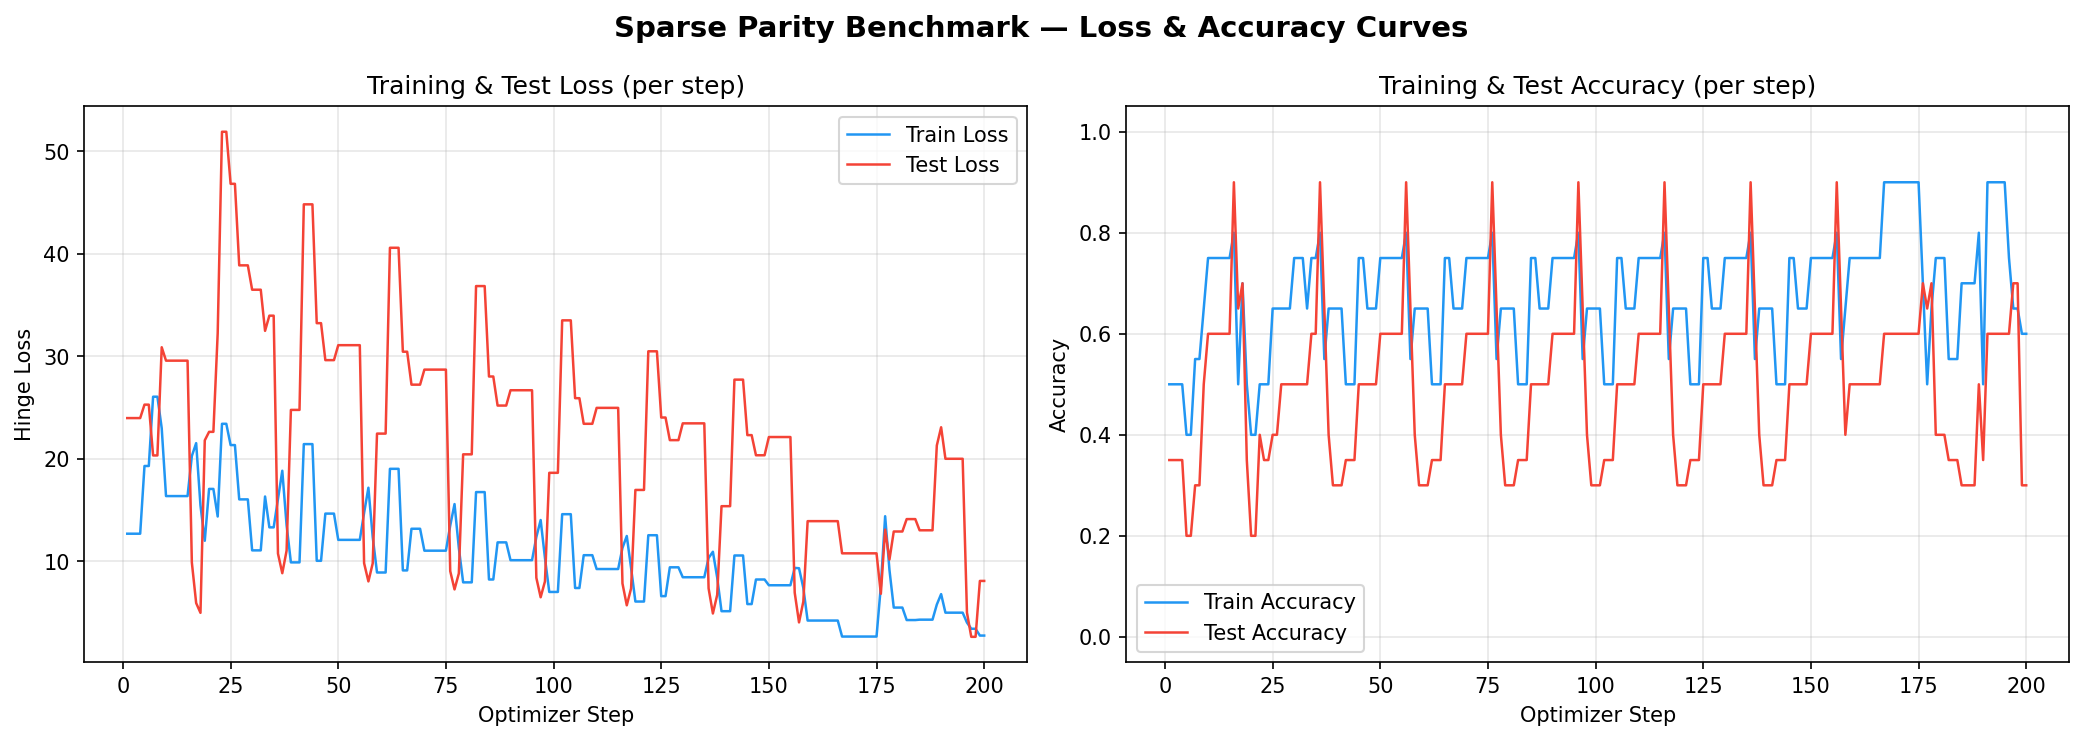
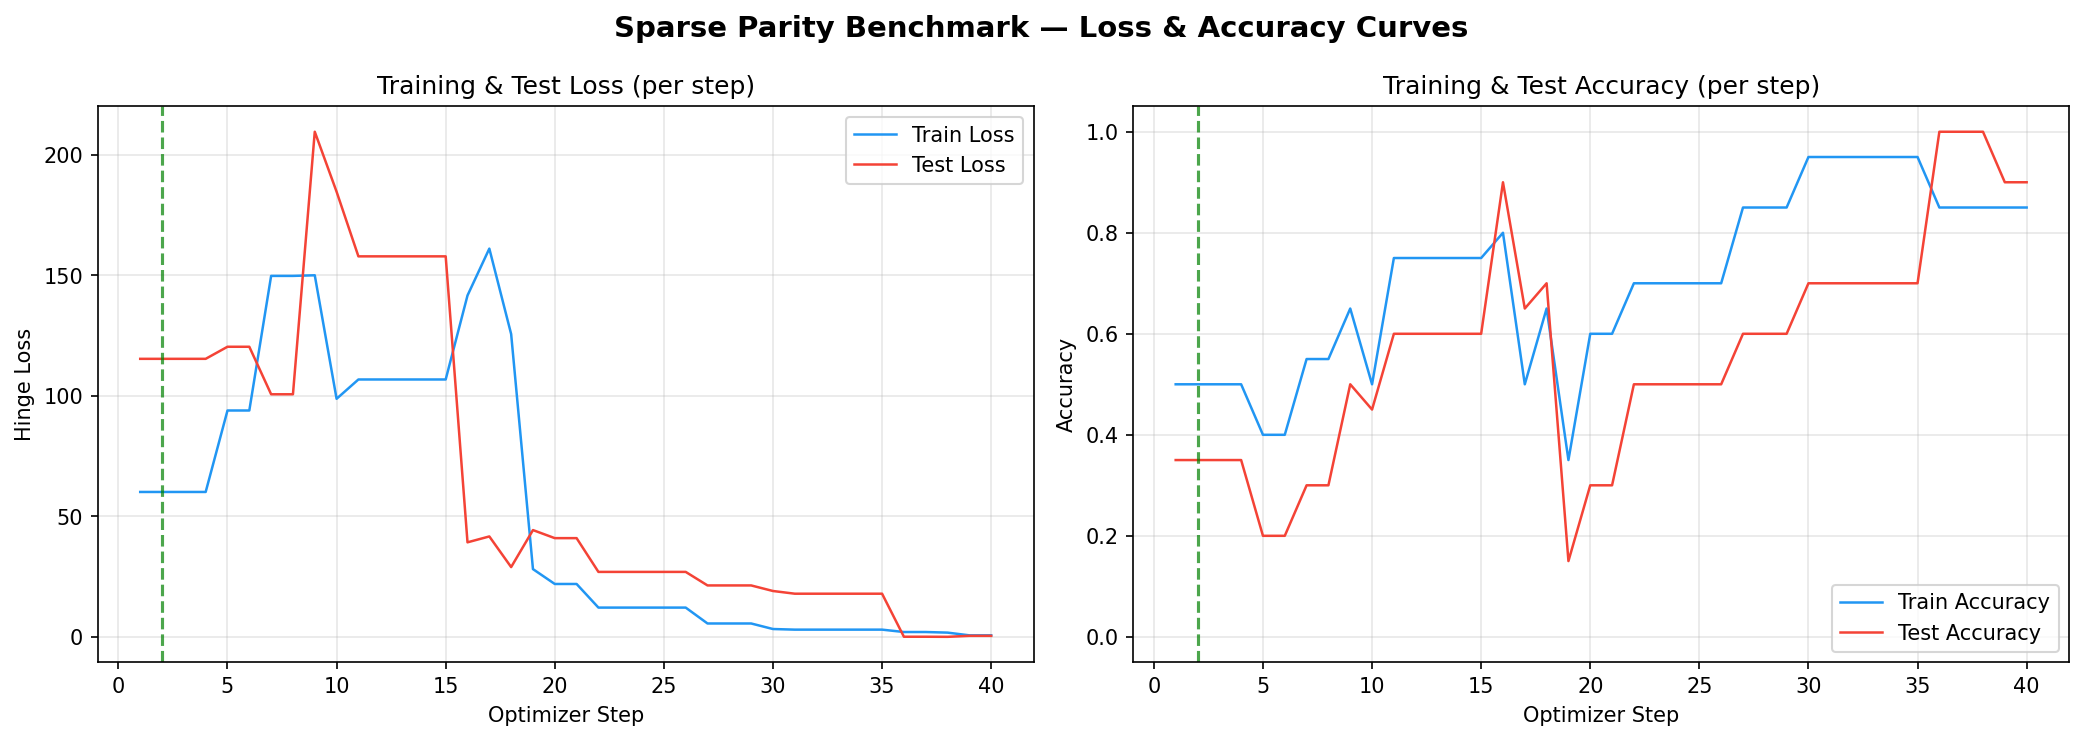
working version

diff --git a/sparse_parity_benchmark.py b/sparse_parity_benchmark.py
@@ -38,7 +38,7 @@ SEED = 42
 
 HIDDEN_DIM = 1000     # hidden layer width
 
-LEARNING_RATE = 0.1
+LEARNING_RATE = 0.5
 WEIGHT_DECAY = 0.01   # L2 regularization — critical for grokking
 MAX_EPOCHS = 10       # 10 epochs × 20 samples = 200 optimizer steps
 LOG_INTERVAL = 1      # print every epoch
